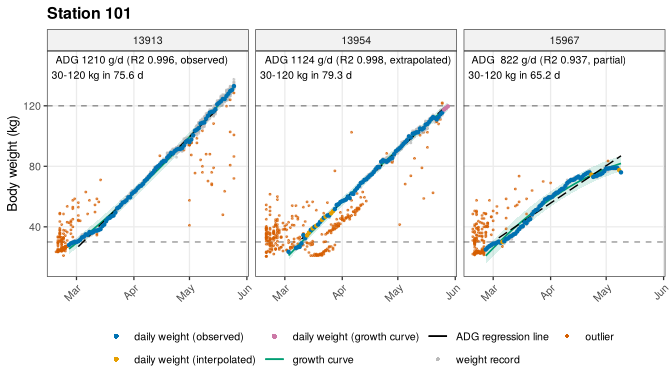
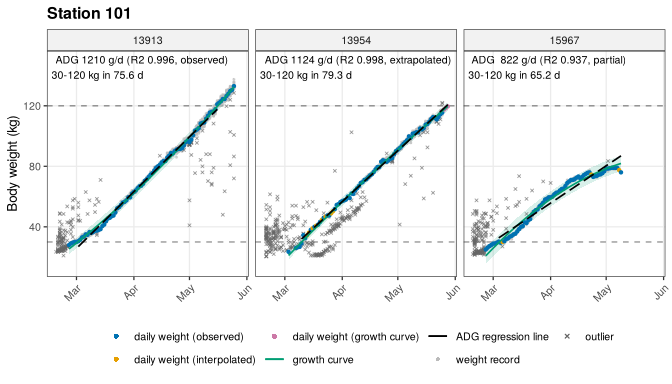
Plots: outliers as grey crosses, ADG line on top; Chinese plot guide; README feed plot
- plot_adg(): outliers drawn as dark grey crosses (no longer close to the
  orange interpolated weights); the ADG regression line is drawn above
  the points
- plot_adfi(): filled days labelled 'filled (between records)' and
  'filled (stage ends)'
- tidypptsda-zh: how to read the growth and feed intake plots
- README: example feed intake plot
- validation-zh: fix a duplicated section title

Claude-Session: https://claude.ai/code/session_0194LcVyNKVepZDAgwvkxjjS

diff --git a/README.md b/README.md
@@ -74,6 +74,11 @@ plot_adg(adg, weight = weight) |> save_plots("plots", suffix = "growth")
 
 <img src="man/figures/README-plot-1.png" width="100%" />
 
+Daily feed intake over the stage: recorded, error-free, corrected and
+filled days, with the ADFI as a dashed line:
+
+<img src="man/figures/README-plot-adfi-1.png" width="100%" />
+
 ## References
 
 Casey, D. S., Stern, H. S., & Dekkers, J. C. M. (2005). Identification
